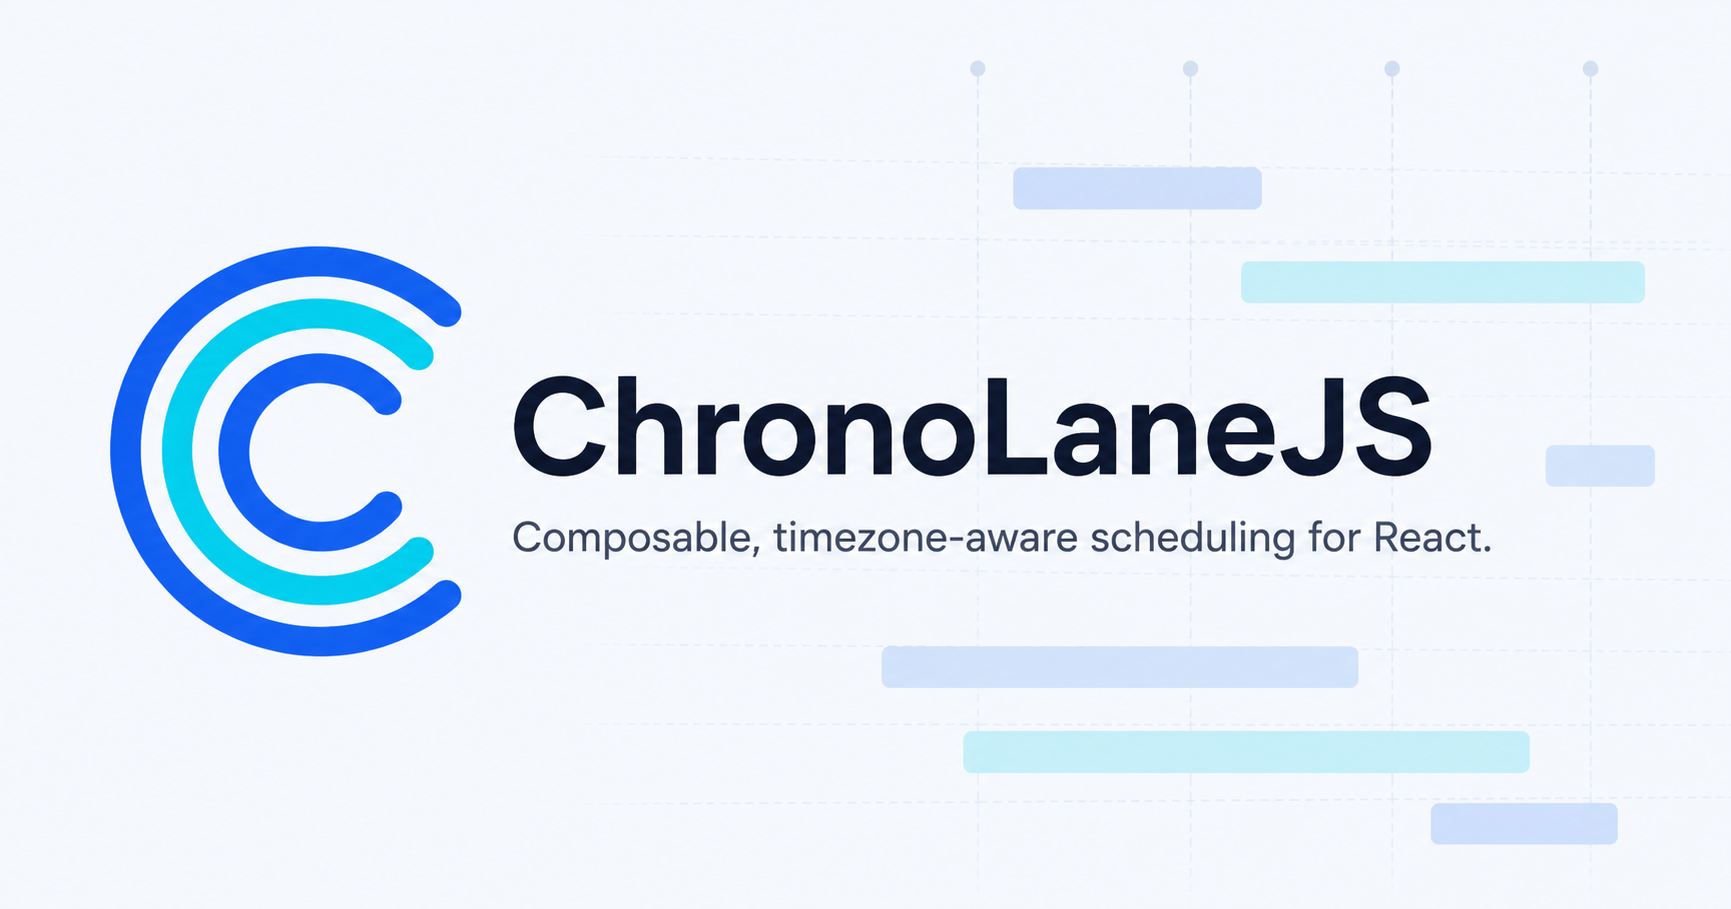
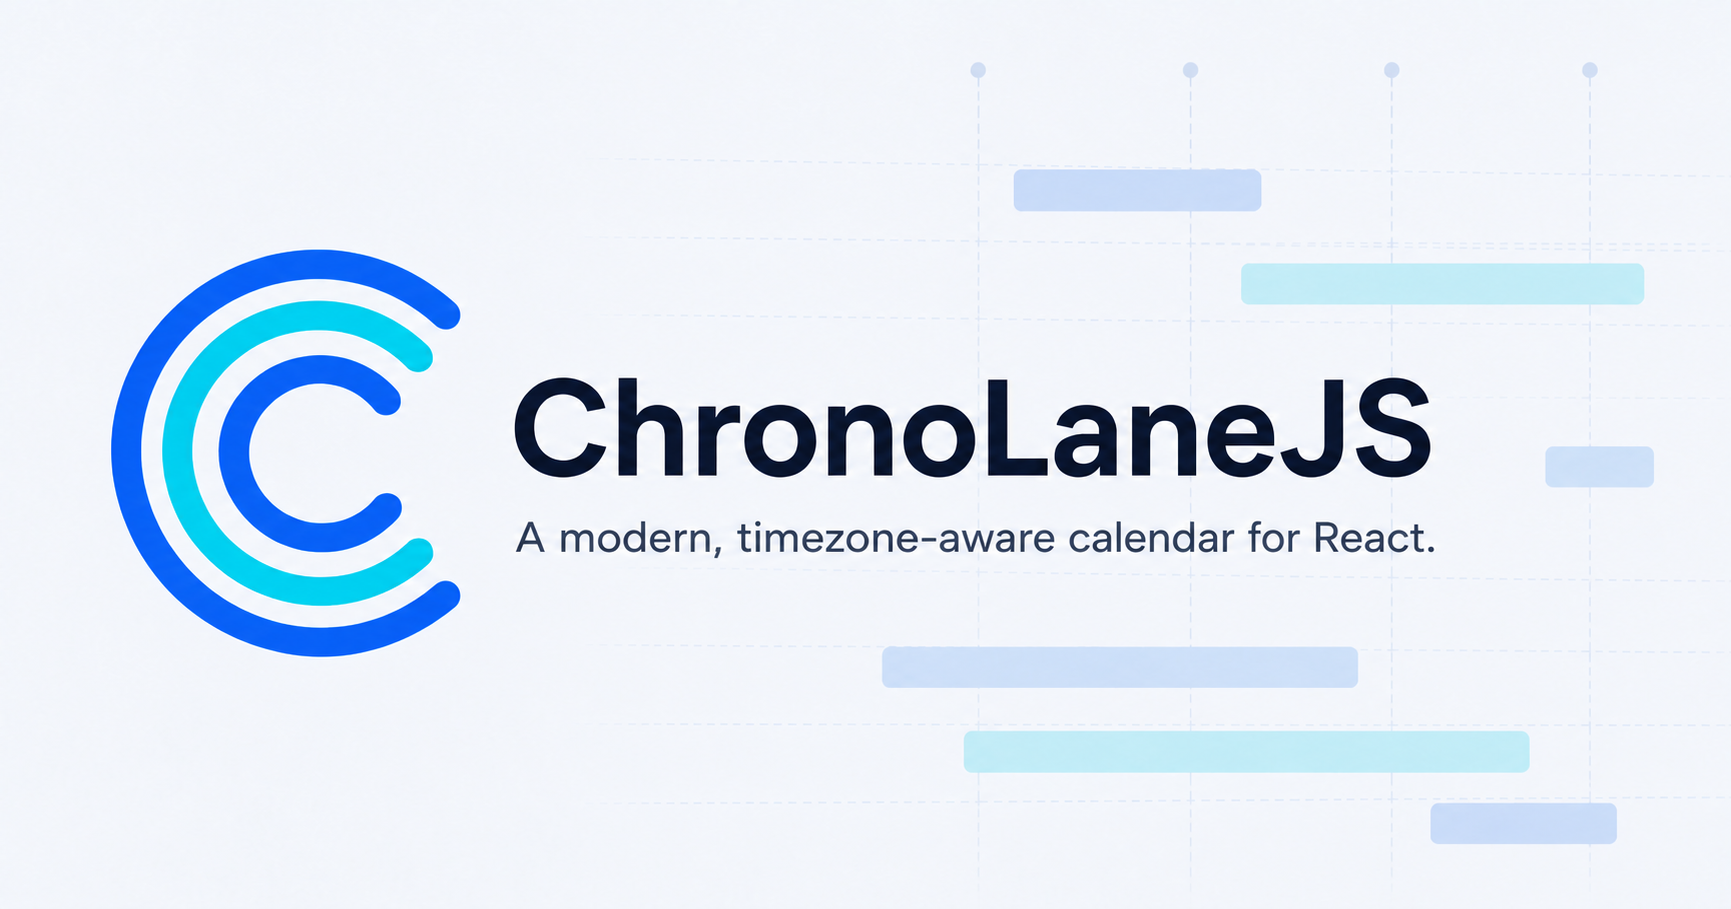
refine project positioning

diff --git a/site/src/App.tsx b/site/src/App.tsx
@@ -16,13 +16,12 @@ export default function App() {
                             Open source · MIT licensed
                         </div>
                         <h1>
-                            Calendar infrastructure,
-                            <span> shaped by you.</span>
+                            A modern calendar,
+                            <span> built for React.</span>
                         </h1>
                         <p className="hero-summary">
-                            A composable, timezone-aware React toolkit for
-                            scheduling interfaces that should feel native to
-                            your product—not ours.
+                            Build day, week, month, agenda, resource, and custom
+                            time-grid views with timezone-aware behavior.
                         </p>
                         <div className="hero-actions">
                             <a className="button button--primary" href="#playground">
@@ -103,12 +102,12 @@ export default function App() {
                 <section className="principles section" aria-labelledby="principles-title">
                     <div className="section-heading">
                         <p className="eyebrow">Designed for real products</p>
-                        <h2 id="principles-title">The hard calendar parts,<br />without the product opinions.</h2>
+                        <h2 id="principles-title">Calendar behavior<br />for real products.</h2>
                     </div>
                     <div className="principle-grid">
                         <article>
                             <span>01</span>
-                            <h3>Own your state</h3>
+                            <h3>Connect your state</h3>
                             <p>
                                 Use controlled or uncontrolled navigation and
                                 connect selections, edits, and drops to any data layer.
@@ -116,10 +115,10 @@ export default function App() {
                         </article>
                         <article>
                             <span>02</span>
-                            <h3>Own your presentation</h3>
+                            <h3>Customize presentation</h3>
                             <p>
-                                Replace meaningful render boundaries while the
-                                library continues to own layout and calendar behavior.
+                                Replace meaningful render boundaries while
+                                ChronoLaneJS handles layout and calendar behavior.
                             </p>
                         </article>
                         <article>
@@ -136,15 +135,15 @@ export default function App() {
                 <section className="brand-showcase section" aria-labelledby="brand-showcase-title">
                     <img
                         src={`${import.meta.env.BASE_URL}og.png`}
-                        alt="ChronoLaneJS — Composable, timezone-aware scheduling for React."
+                        alt="ChronoLaneJS — A modern, timezone-aware calendar for React."
                         loading="lazy"
                     />
                     <div className="brand-showcase-copy">
                         <p className="eyebrow">Open source by design</p>
-                        <h2 id="brand-showcase-title">Build it on your terms.</h2>
+                        <h2 id="brand-showcase-title">Ready for real schedules.</h2>
                         <p>
-                            Start with the documented model, then shape every
-                            interaction and renderer around your product.
+                            Start with the built-in views, then customize
+                            interactions and rendering for your product.
                         </p>
                         <div className="hero-actions">
                             <a className="button button--primary" href={REPOSITORY_URL} target="_blank" rel="noreferrer">

diff --git a/site/index.html b/site/index.html
@@ -6,12 +6,12 @@
         <meta name="theme-color" content="#f7f9fc" />
         <meta
             name="description"
-            content="ChronoLaneJS is a composable, timezone-aware calendar toolkit for React."
+            content="ChronoLaneJS is a modern, timezone-aware calendar for React."
         />
         <meta property="og:title" content="ChronoLaneJS" />
         <meta
             property="og:description"
-            content="Composable, timezone-aware scheduling for React."
+            content="A modern, timezone-aware calendar for React."
         />
         <meta property="og:type" content="website" />
         <meta property="og:url" content="https://maximilianwalker.github.io/ChronoLaneJS/" />
@@ -23,14 +23,14 @@
         <meta name="twitter:title" content="ChronoLaneJS" />
         <meta
             name="twitter:description"
-            content="Composable, timezone-aware scheduling for React."
+            content="A modern, timezone-aware calendar for React."
         />
         <meta
             name="twitter:image"
             content="https://maximilianwalker.github.io/ChronoLaneJS/og.png"
         />
         <link rel="icon" type="image/svg+xml" href="./chronolane-logo.svg" />
-        <title>ChronoLaneJS — Calendar infrastructure for React</title>
+        <title>ChronoLaneJS — A modern calendar for React</title>
     </head>
     <body>
         <div id="root"></div>

diff --git a/site/src/Chrome.tsx b/site/src/Chrome.tsx
@@ -40,7 +40,7 @@ export function Footer() {
                 <img src={`${baseUrl}chronolane-logo.svg`} alt="" />
                 <span>ChronoLaneJS</span>
             </div>
-            <p>Composable, timezone-aware scheduling for React.</p>
+            <p>A modern, timezone-aware calendar for React.</p>
             <div>
                 <a href={`${REPOSITORY_URL}/blob/main/LICENSE`}>MIT License</a>
                 <a href={`${baseUrl}docs/#doc-security`}>Security</a>

diff --git a/site/docs/index.html b/site/docs/index.html
@@ -11,7 +11,7 @@
         <meta property="og:title" content="ChronoLaneJS documentation" />
         <meta
             property="og:description"
-            content="Build composable, timezone-aware scheduling interfaces for React."
+            content="A modern, timezone-aware calendar for React."
         />
         <meta property="og:type" content="website" />
         <meta property="og:url" content="https://maximilianwalker.github.io/ChronoLaneJS/docs/" />

diff --git a/README.md b/README.md
@@ -5,12 +5,12 @@
 <h1 align="center">ChronoLaneJS</h1>
 
 <p align="center">
-  <strong>Composable, timezone-aware scheduling for React.</strong>
+  <strong>A modern, timezone-aware calendar for React.</strong>
 </p>
 
 <p align="center">
-  Build day, week, month, agenda, resource, and custom time-grid experiences<br />
-  without surrendering your application state, design system, or data model.
+  Day, week, month, agenda, resource, and custom time-grid views<br />
+  with flexible rendering and controlled or uncontrolled state.
 </p>
 
 <p align="center">
@@ -34,11 +34,10 @@
 
 ---
 
-ChronoLaneJS is a TypeScript-first calendar toolkit for building scheduling
-interfaces that need real timezone behavior and application-owned UI. It
-provides the date calculations, range navigation, event layout, interactions,
-and accessible defaults while keeping state management and persistence outside
-the library.
+ChronoLaneJS is a customizable React calendar with day, week, month, agenda,
+resource, and custom time-grid views. It provides timezone-aware date handling,
+range navigation, event layout, interactions, and accessible defaults while
+keeping state management and persistence outside the component.
 
 > [!IMPORTANT]
 > ChronoLaneJS is pre-1.0, and `@chronolanejs/react` has not been published to
@@ -54,9 +53,9 @@ the library.
   date-fns locales, and explicit week-start behavior are built in.
 - **Flexible layout:** overlapping events, clipped multi-day events,
   background events, resources, and non-contiguous ranges are first-class.
-- **Application-owned behavior:** controlled or uncontrolled navigation,
+- **Flexible integration:** controlled or uncontrolled navigation,
   selection, editing, and drag-and-drop integrate with your state layer.
-- **Replaceable presentation:** override the meaningful render boundaries or
+- **Customizable presentation:** override the meaningful render boundaries or
   style the defaults without inheriting a design system.
 - **Typed and tested:** the ESM package emits declarations from source, and
   every Storybook example runs as a browser and accessibility test.
